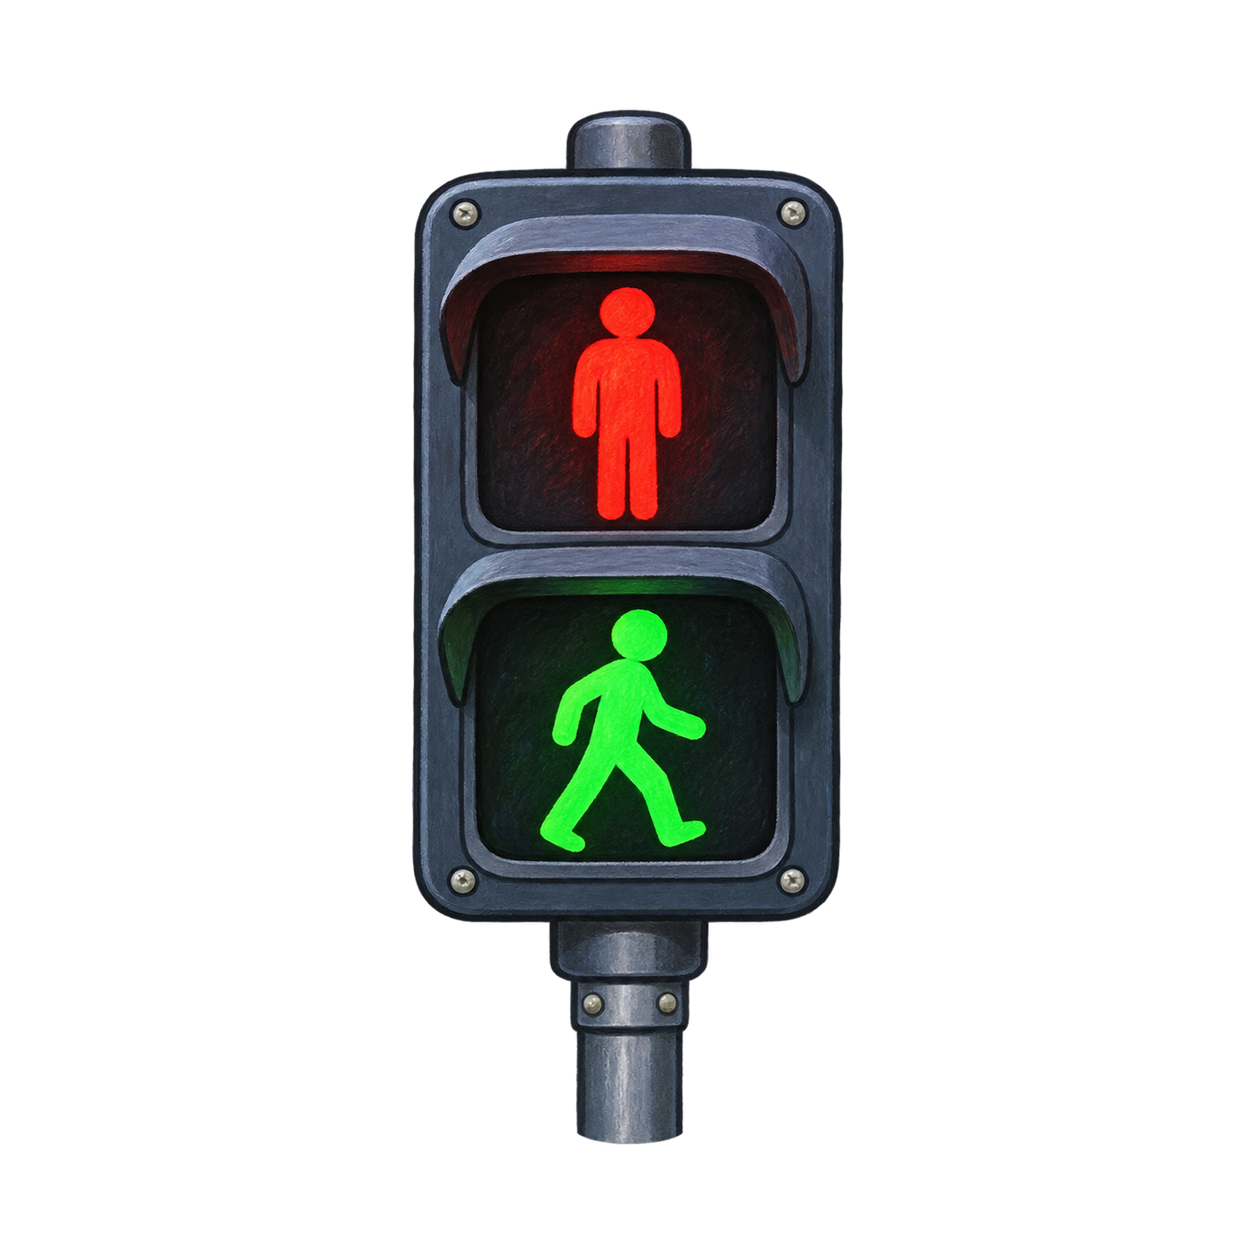
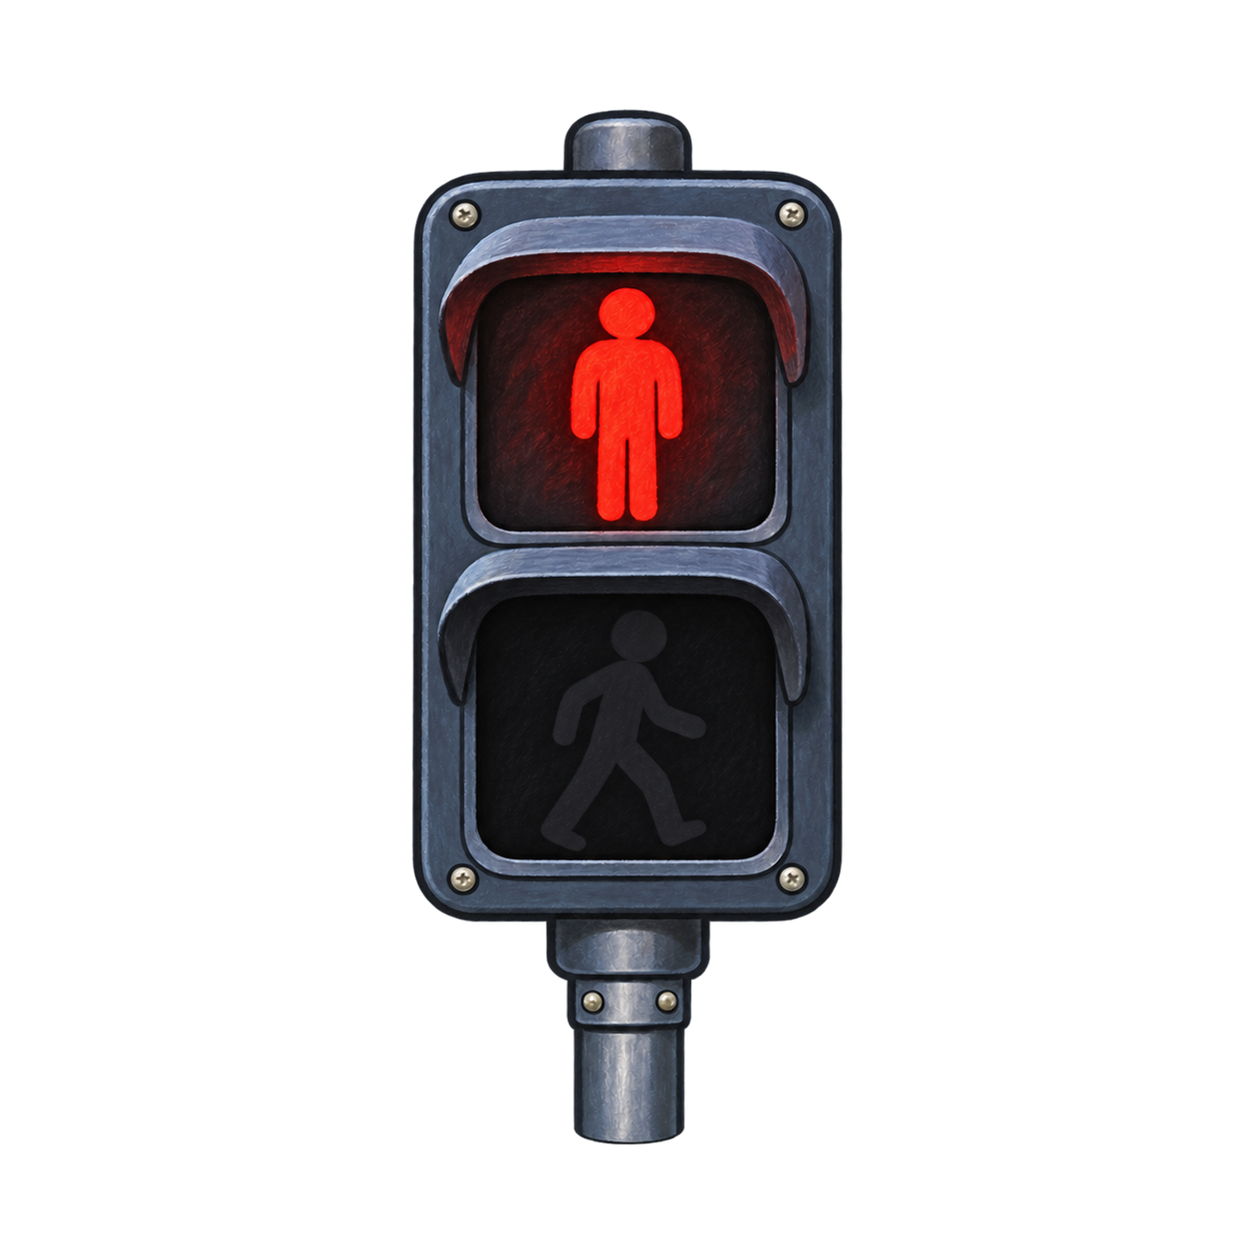
Correct Transport safety art and cycling highlights

Changed region(s): [[0.311, 0.0933, 0.6842, 0.933], [0.3732, 0.5598, 0.4043, 0.5909], [0.3421, 0.4665, 0.3732, 0.4976]]

diff --git a/site/dist/images/teaching-scenes/library.js b/site/dist/images/teaching-scenes/library.js
@@ -3285,12 +3285,12 @@ globalThis.TransportSceneLibrary = {
         [
           "Reflector",
           "A piece that sends light back towards where it came from.",
-          "M310,255 317,222 319,167 319,136 326,120 339,113 355,118 370,135 391,160 395,186 386,183 377,160 364,147 351,132 338,130 331,147 333,167 349,187 376,201 397,208 407,215 415,263 407,270 400,268 394,228 392,265 380,273 323,270 308,264Z"
+          "M228,290 237,287 265,289 271,296 270,306 265,313 229,311 226,305Z"
         ],
         [
           "Reflective vest",
           "A vest with strips that reflect light and help people see the wearer.",
-          "M228,290 237,287 265,289 271,296 270,306 265,313 229,311 226,305Z"
+          "M310,255 317,222 319,167 319,136 326,120 339,113 355,118 370,135 391,160 395,186 386,183 377,160 364,147 351,132 338,130 331,147 333,167 349,187 376,201 397,208 407,215 415,263 407,270 400,268 394,228 392,265 380,273 323,270 308,264Z"
         ]
       ]
     },

diff --git a/docs/TRANSPORT-PHONE-ART-QA-2026-11-10.md b/docs/TRANSPORT-PHONE-ART-QA-2026-11-10.md
@@ -1,0 +1,21 @@
+# Transport phone artwork audit
+
+Checked the running Transport Town app from `main` at 390 × 844, starting from `d5675e3`. The reference was the approved Painted Field Guide direction and the Plants Blueprint v6.0 artwork contract.
+
+- **Meet the Words:** Navigated All words using the real card and Next session buttons. Reached 121 distinct picture URLs, including the 20 cards with part insets. Every main image loaded and fit the viewport. Reviewed the isolated cutouts on white and dark green for teaching meaning, framing and edge quality.
+- **Transport Scenes:** Opened all 24 scenes and pressed all 121 labels. Each selected the right button and description and activated a distinct SVG path over a loaded image. The overlay and image matched in size and position. Reviewed the paths against their subjects at the app's 334 px scene image width. The cycling mix-up was visible in this pass even though every button worked.
+
+## Art repairs
+
+| Art | Repair |
+| --- | --- |
+| `safety.traffic-light` | Shows the top red lamp lit, with amber and green off. |
+| `safety.crossing-signal` | Shows the red standing person lit and the lower walking display off. |
+| Street and crossing scene | The vehicle signal shows red only. The green pedestrian signal remains visible, and scene dimensions and highlight coordinates are unchanged. |
+| Cycling equipment scene | Swapped the two misassigned traced contours. Reflector selects the amber bicycle reflector and Reflective vest selects the vest. |
+
+The unchanged runtime paths point to the corrected PNGs. The two word masters are 1254 × 1254 RGBA PNGs and their runtime copies are 720 × 720 RGBA PNGs. The [word ledger](content/TRANSPORT-FIELD-GUIDE-ART-LEDGER.json) and [scene ledger](content/TRANSPORT-FIELD-GUIDE-SCENES.json) record the prompts, hashes and provenance. The scene library was regenerated from its art ledger. Only the two corrected SVG path strings changed in the generated library.
+
+## Handoff for Claude
+
+In **Meet the Words → Transport Scenes → Street and crossing → Crossing signal**, the selected picture shows a green walking person. The existing description says “This red figure means wait.” Update that description to match the scene, while retaining the advice to check for traffic before crossing. The isolated Crossing signal word card intentionally shows a different state, red for wait.
